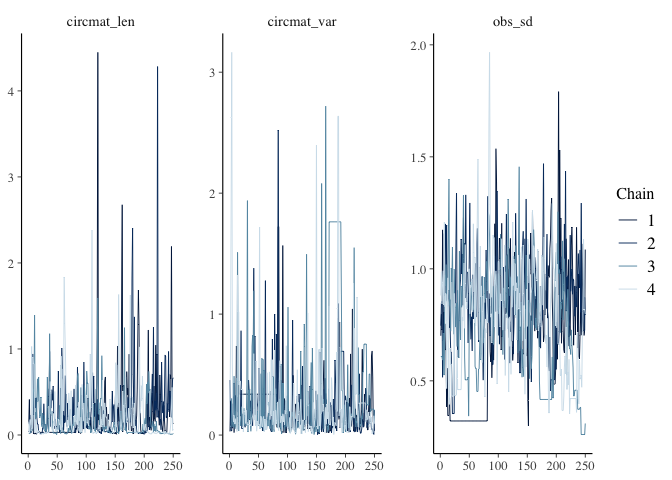
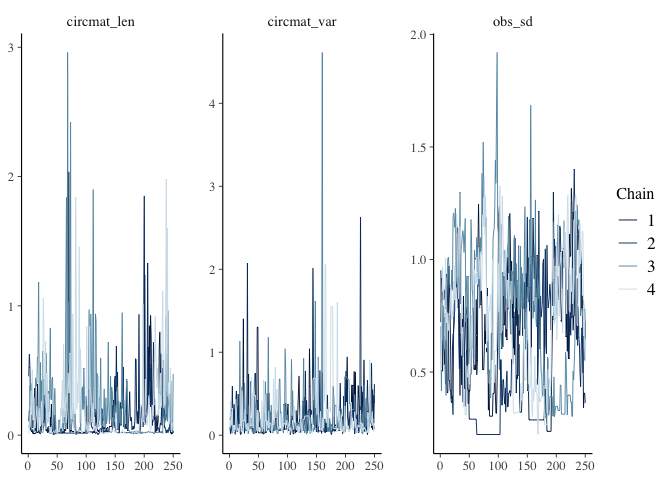
fixed some janky brackets

diff --git a/new_bits.md b/new_bits.md
@@ -78,7 +78,7 @@ $\sigma^2$, and the lengthscale, $l$. The kernel takes one argument,
 $\delta$, the great circle distance between two points.
 
 $$
-C_s(\delta) = \left\{\left[\sinh\left(\frac{l}{2}\right) + \frac{l}{2} \cosh\left(\frac{l}{2}\right)\right]\cosh\left(\frac{l}{2}\right) - l\left(\delta - \frac{1}{2}\right) \sinh\left(l\left(\delta - \frac{1}{2}\right)\right)\right\}\times 4l^3\sinh^2\left(\frac{l}{2}\right)\times\sigma^2
+C_s(\delta) = \{[\sinh(\frac{l}{2}) + \frac{l}{2} \cosh(\frac{l}{2})]\cosh(\frac{l}{2}) - l(\delta - \frac{1}{2}) \sinh(l(\delta - \frac{1}{2}))\}\times 4l^3\sinh^2(\frac{l}{2})\times\sigma^2
 $$
 
 For the purposes of demonstration, here are some data: locations in
@@ -148,8 +148,8 @@ draws <- mcmc(m, n_samples = 250,
                                         obs_sd = 0.5))
 #> Only one set of initial values was provided, and was used for all chains
 #> running 4 chains simultaneously on up to 8 CPU cores
-#>     warmup                                           0/1000 | eta:  ?s              warmup ==                                       50/1000 | eta: 24s | 2% bad     warmup ====                                    100/1000 | eta: 13s | 1% bad     warmup ======                                  150/1000 | eta:  9s | 1% bad     warmup ========                                200/1000 | eta:  7s | 2% bad     warmup ==========                              250/1000 | eta:  6s | 3% bad     warmup ===========                             300/1000 | eta:  5s | 4% bad     warmup =============                           350/1000 | eta:  4s | 4% bad     warmup ===============                         400/1000 | eta:  4s | 3% bad     warmup =================                       450/1000 | eta:  3s | 4% bad     warmup ===================                     500/1000 | eta:  3s | 4% bad     warmup =====================                   550/1000 | eta:  3s | 4% bad     warmup =======================                 600/1000 | eta:  2s | 4% bad     warmup =========================               650/1000 | eta:  2s | 4% bad     warmup ===========================             700/1000 | eta:  2s | 4% bad     warmup ============================            750/1000 | eta:  1s | 4% bad     warmup ==============================          800/1000 | eta:  1s | 4% bad     warmup ================================        850/1000 | eta:  1s | 4% bad     warmup ==================================      900/1000 | eta:  0s | 4% bad     warmup ====================================    950/1000 | eta:  0s | 4% bad     warmup ====================================== 1000/1000 | eta:  0s | 4% bad 
-#>   sampling                                            0/250 | eta:  ?s            sampling ========                                  50/250 | eta:  1s | 14% bad  sampling ===============                          100/250 | eta:  1s | 12% bad  sampling =======================                  150/250 | eta:  0s | 8% bad   sampling ==============================           200/250 | eta:  0s | 7% bad   sampling ======================================   250/250 | eta:  0s | 7% bad
+#>     warmup                                           0/1000 | eta:  ?s              warmup ==                                       50/1000 | eta: 27s              warmup ====                                    100/1000 | eta: 15s | 1% bad     warmup ======                                  150/1000 | eta: 10s | <1% bad    warmup ========                                200/1000 | eta:  8s | <1% bad    warmup ==========                              250/1000 | eta:  7s | <1% bad    warmup ===========                             300/1000 | eta:  6s | 1% bad     warmup =============                           350/1000 | eta:  5s | 3% bad     warmup ===============                         400/1000 | eta:  4s | 4% bad     warmup =================                       450/1000 | eta:  4s | 7% bad     warmup ===================                     500/1000 | eta:  3s | 9% bad     warmup =====================                   550/1000 | eta:  3s | 9% bad     warmup =======================                 600/1000 | eta:  2s | 9% bad     warmup =========================               650/1000 | eta:  2s | 9% bad     warmup ===========================             700/1000 | eta:  2s | 10% bad    warmup ============================            750/1000 | eta:  1s | 10% bad    warmup ==============================          800/1000 | eta:  1s | 11% bad    warmup ================================        850/1000 | eta:  1s | 11% bad    warmup ==================================      900/1000 | eta:  1s | 10% bad    warmup ====================================    950/1000 | eta:  0s | 10% bad    warmup ====================================== 1000/1000 | eta:  0s | 9% bad 
+#>   sampling                                            0/250 | eta:  ?s            sampling ========                                  50/250 | eta:  1s | 4% bad   sampling ===============                          100/250 | eta:  1s | 8% bad   sampling =======================                  150/250 | eta:  0s | 7% bad   sampling ==============================           200/250 | eta:  0s | 8% bad   sampling ======================================   250/250 | eta:  0s | 7% bad
 # certainly some jumpy things happening in here:
 bayesplot::mcmc_trace(draws)
 ```
@@ -163,9 +163,9 @@ coda::gelman.diag(draws, autoburnin = FALSE, multivariate = FALSE)
 #> Potential scale reduction factors:
 #> 
 #>             Point est. Upper C.I.
-#> circmat_len       1.03       1.05
-#> circmat_var       1.08       1.16
-#> obs_sd            1.05       1.14
+#> circmat_len       1.06       1.13
+#> circmat_var       1.02       1.02
+#> obs_sd            1.04       1.12
 
 # There's probably a lovely built-in function to do this:
 par(mfrow = c(1,3), oma = c(2,0,0,0))
@@ -217,9 +217,6 @@ have enough mass close to zero to let us get at an output with lots of
 peaks and troughs in the study area. We can use `greta::calculate()` to
 poke around at feasible hyperparameter values:
 
-    #> null device 
-    #>           1
-
 ``` r
 # Make sure you populate nsim here:
 prior_eg = greta::calculate(f_plot,
@@ -269,3 +266,7 @@ mtext("(Dashed lines are 5% and 95% quantiles)", outer = TRUE, side =1)
 ```
 
 <img src="man/figures/new_bits-unnamed-chunk-10-1.png" width="100%" />
+
+Of course, I’ve only looked at lognormal priors here - there might be
+alternatives with lighter tails that would be more suited to the problem
+I have in mind. TODO!
